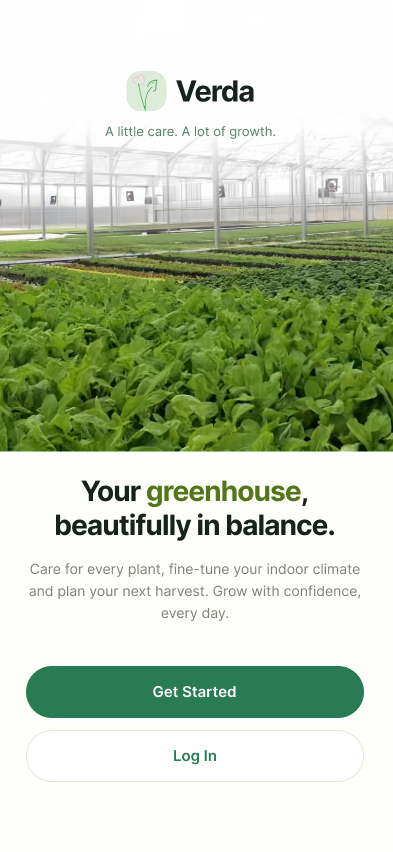
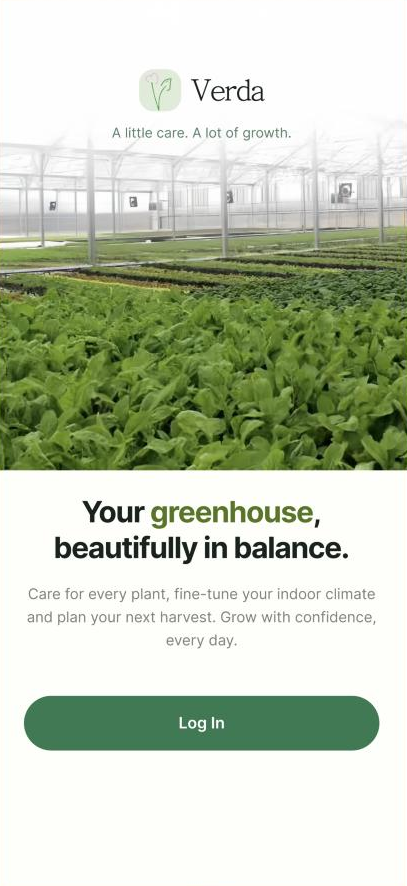
Update screens from the new Figma design

Changed region(s): [[0.0, 0.061, 1.0, 0.7324], [0.0611, 0.7629, 0.9466, 0.9155]]

diff --git a/README.md b/README.md
@@ -36,6 +36,18 @@ Every member commits code every week; the brief asks for 20+ meaningful commits 
 
 **Figma:** [https://www.figma.com/design/3alIxkFbGmd98m6Q3XBWZw/Verda?node-id=0-1](https://www.figma.com/design/3alIxkFbGmd98m6Q3XBWZw/Verda?node-id=0-1)
 
+## Screens
+
+All 17 screens from the Figma file (files in [design/screens](design/screens)).
+
+<table>
+<tr><td align="center"><img src="design/screens/beginning.png" width="180" alt="Beginning screen"><br>Beginning</td><td align="center"><img src="design/screens/login.png" width="180" alt="Login screen"><br>Login</td><td align="center"><img src="design/screens/home.png" width="180" alt="Home screen"><br>Home</td><td align="center"><img src="design/screens/notifications.png" width="180" alt="Notifications screen"><br>Notifications</td></tr>
+<tr><td align="center"><img src="design/screens/greenhouse.png" width="180" alt="Greenhouse screen"><br>Greenhouse</td><td align="center"><img src="design/screens/zone-a.png" width="180" alt="Zone A screen"><br>Zone A</td><td align="center"><img src="design/screens/zone-b.png" width="180" alt="Zone B screen"><br>Zone B</td><td align="center"><img src="design/screens/zone-c.png" width="180" alt="Zone C screen"><br>Zone C</td></tr>
+<tr><td align="center"><img src="design/screens/zone-d.png" width="180" alt="Zone D screen"><br>Zone D</td><td align="center"><img src="design/screens/zone-e.png" width="180" alt="Zone E screen"><br>Zone E</td><td align="center"><img src="design/screens/zone-f.png" width="180" alt="Zone F screen"><br>Zone F</td><td align="center"><img src="design/screens/harvest.png" width="180" alt="Harvest screen"><br>Harvest</td></tr>
+<tr><td align="center"><img src="design/screens/analysis-week.png" width="180" alt="Analysis week screen"><br>Analysis week</td><td align="center"><img src="design/screens/analysis-month.png" width="180" alt="Analysis month screen"><br>Analysis month</td><td align="center"><img src="design/screens/analysis-year.png" width="180" alt="Analysis year screen"><br>Analysis year</td><td align="center"><img src="design/screens/profile.png" width="180" alt="Profile screen"><br>Profile</td></tr>
+<tr><td align="center"><img src="design/screens/settings.png" width="180" alt="Settings screen"><br>Settings</td></tr>
+</table>
+
 ## Tech stack
 
 **React Native (Expo, TypeScript) + Firebase (Auth, Cloud Firestore).** We all use iPhones, so we run the app through Expo Go and build the Android APK in the cloud with EAS. Reasons: [docs/week2-design.md](docs/week2-design.md#4-stack).
@@ -56,7 +68,7 @@ Android APK: `npx eas build -p android --profile preview`.
 ```
 VERDA/
 ├── README.md
-├── design/   app diagram, screen exports from Figma
+├── design/   app diagram, screenshots of the Figma screens
 ├── docs/     week 1 charter, week 2 design (MD + PDF)
 ├── brief/    our idea deck (Supernova)
 └── app/      Expo app (from week 3)
